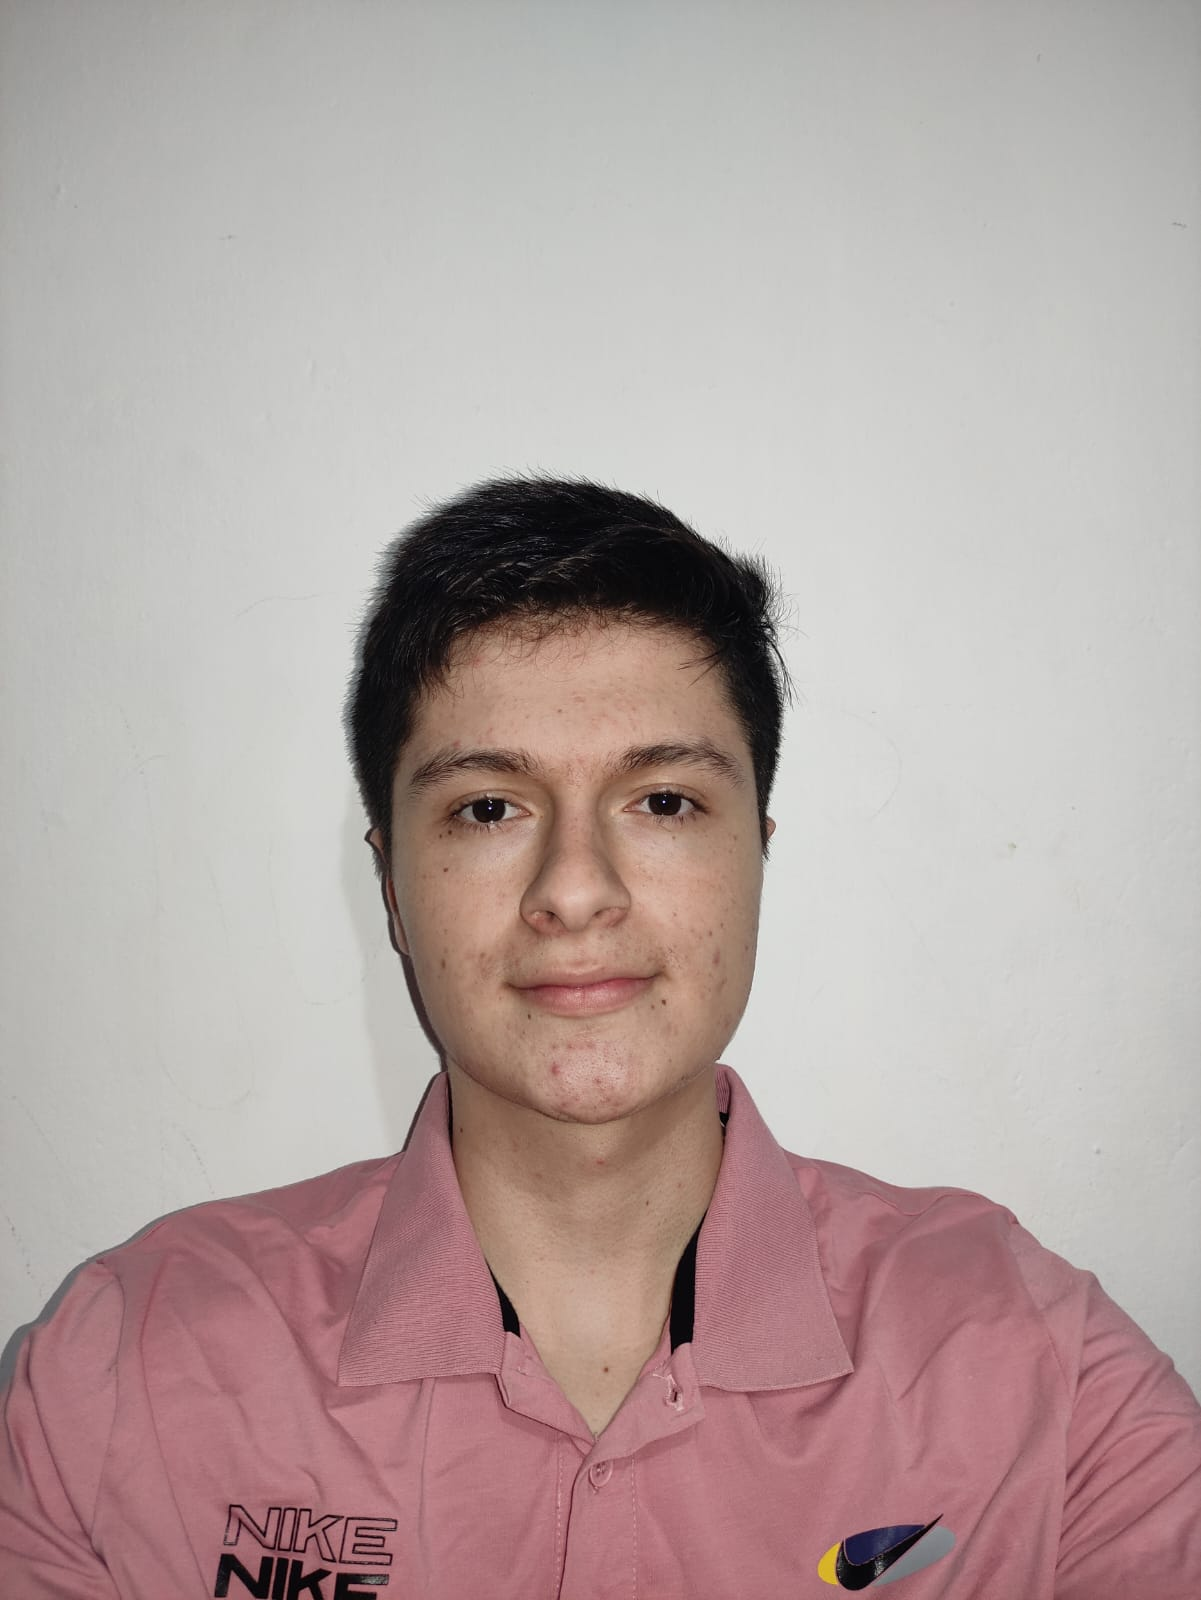
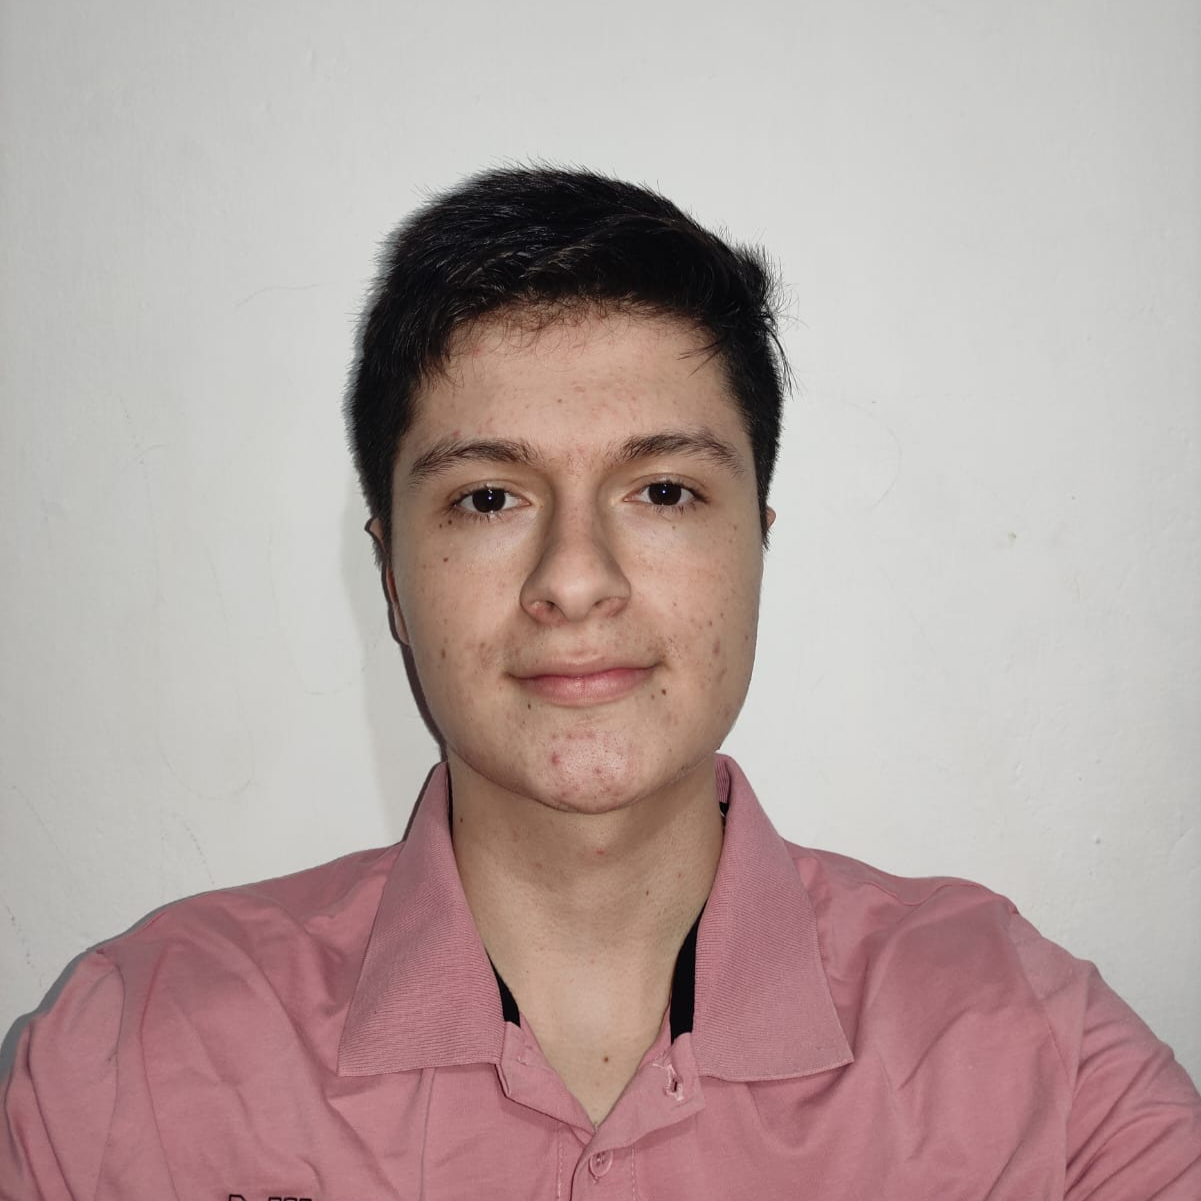
Avances del portafolio Organizacion de la seccion hero con su estilización y maquetación de el perfil, iconos, cartas de stats

diff --git a/src/assets/sections/Hero.jsx b/src/assets/sections/Hero.jsx
@@ -1,9 +1,13 @@
 import React from 'react'
-import PROFILE_PIC from '../images/profile.png'
-// import ICON_1 from "./assets/images/icon-1.png";
-// import ICON_2 from "./assets/images/icon-2.png";
-// import ICON_3 from "./assets/images/icon-3.png";
-// import ICON_4 from "./assets/images/icon-4.png";
+import PROFILE_PIC from '../images/profile-removebg-preview.png'
+import ICON_1 from "../images/icon-1.png";
+import ICON_2 from "../images/icon-2.png";
+import ICON_3 from "../images/icon-3.png";
+import ICON_4 from "../images/icon-4.png";
+import ICON_5 from "../images/icon-5.png";
+import ICON_6 from "../images/icon-6.png";
+import {STATS} from "../utils/data.js"
+import StatInfoCard from '../components/StatInfoCard.jsx';
 
 export const Hero = () => {
   return (
@@ -42,9 +46,47 @@ export const Hero = () => {
           </div> */}
         </div>
 
-        <div className="">
-            <img src={PROFILE_PIC} alt="Profile pic" />
+        <div className="w-[300px] md:w-[370px] h-[350px] md:h-[420px] bg-green-100/50 rounded-3xl relative order-1 lg:order-2">
+            <div className='profile-pic'>
+              <img src={PROFILE_PIC} alt="Profile pic" className=''/>
+            </div>
+
+            <img 
+              src={ICON_1}
+              alt="icon 1"
+              className='icon-img left-[-40px] bottom-20 rotate-[1.75deg]'
+            />
+            <img 
+              src={ICON_2}
+              alt="icon 2"
+              className='icon-img left-5 bottom-[-18px] rotate-[2.75deg]'
+            />
+            <img 
+              src={ICON_3}
+              alt="icon 3"
+              className='icon-img left-[200px] bottom-[-28px] rotate-[3.75deg]'
+            />
+            <img 
+              src={ICON_4}
+              alt="icon 4"
+              className='icon-img icon-img left-[268px] lg:left-[326px] md:left-[326px] bottom-[38px] rotate-[4.75deg]'
+            />
+            <img 
+              src={ICON_5}
+              alt="icon 1"
+              className='icon-img icon-img left-[268px] lg:left-[347px] md:left-[348px] bottom-[184px] rotate-[4.75deg]'
+            />
+            <img 
+              src={ICON_6}
+              alt="icon 1"
+              className='icon-img icon-img left-[-30px] bottom-[238px] rotate-[3.75deg]'
+            />
         </div>
+      </div>
+      <div className='flex gap-12 mt-16 md:mt-24 flex-wrap'>
+        {STATS.map((item) => {
+          return (<StatInfoCard key={item.id} value={item.value} label={item.label} />)
+        })}
       </div>
     </section>
   );

diff --git a/src/index.css b/src/index.css
@@ -18,7 +18,7 @@
   .menu-wrapper {
     @apply md:flex flex-col md:flex-row gap-4  md:gap-8 text-sm font-medium absolute md:static top-[70px]
     left-0 w-full md:w-auto bg-white/45 md:bg-transparent rounded-lg md:rounded-none shadow-md
-    md:shadow-none p-4 md:p-0  z-50 border border-[#fee6cc] md:border-none backdrop-blur-[30.90px]
+    md:shadow-none p-4 md:p-0  z-50 border border-[#10B981] md:border-none backdrop-blur-[30.90px]
     md:backdrop-blur-none;
   }
 
@@ -44,6 +44,22 @@
 
   .btn-scale-anim {
     @apply transition-transform duration-300 ease-in-out transform hover:scale-105 hover:shadow-lg;
+  }
+
+  .profile-pic {
+    @apply w-[300px] md:w-[370px] h-[350px] md:h-[428px] rotate-[5.75deg]
+    transition-transform duration-300 ease-in-out bg-green-200/100 rounded-3xl;
+  }
+    .profile-pic:hover {
+    @apply scale-105 rotate-[3deg];
+  }
+
+  .icon-img {
+    @apply w-12 md:w-16 md:h-16 absolute transition-transform duration-300 ease-in-out rounded bg-green-300/80;
+  }
+
+  .icon-img:hover {
+    @apply scale-105 rotate-0;
   }
 
 }

diff --git a/src/assets/components/NavBar.jsx b/src/assets/components/NavBar.jsx
@@ -35,7 +35,7 @@ const NavBar = () => {
     <nav className='container mx-auto sticky top-5 z-10'>
       <div className='flex items-center justify-between rounded-full bg-white/25 border border-[#10B981] backdrop-blur-[10px] m-5 p-3 md:p-0'>
         {/* logo */}
-        <img className='h-7 ml-6 -mb-1' src={LOGO} alt="Logo" />
+        <img className='h-12 ml-6 -mb-1' src={LOGO} alt="Logo" />
 
         {/* Hamburger Icon (Visible only on small screens) */}
         <button 

diff --git a/src/assets/components/StatInfoCard.jsx b/src/assets/components/StatInfoCard.jsx
@@ -1,0 +1,12 @@
+import React from 'react'
+
+const StatInfoCard = ({value, label}) => {
+  return (
+    <div className='flex-1 flex gap-5 bg-gradient-to-b from-[#10B981] rounded-[14px] p-5'>
+        <h4 className='text-4xl md:text-5xl font-medium text-secondary'>{value}</h4>
+        <p className='text-sm md:text-[16px] font-normal text-black leading-6 whitespace-pre-line'>{label}</p>
+    </div>
+  )
+}
+
+export default StatInfoCard

diff --git a/src/assets/utils/data.js b/src/assets/utils/data.js
@@ -49,6 +49,12 @@ export const ABOUT_ME = {
   ]
 };
 
+export const STATS = [
+    {id: "1", value: "3+", label: "Años de experiencia" },
+    {id: "2", value: "30+", label: "Proyectos completados" },
+    {id: "3", value: "Full-Stack", label: "Especialización" }
+  ]
+
 // // Skills Tabs
 // export const skillTabs = [
 //   { id: "01", label: "All", value: "all" },
